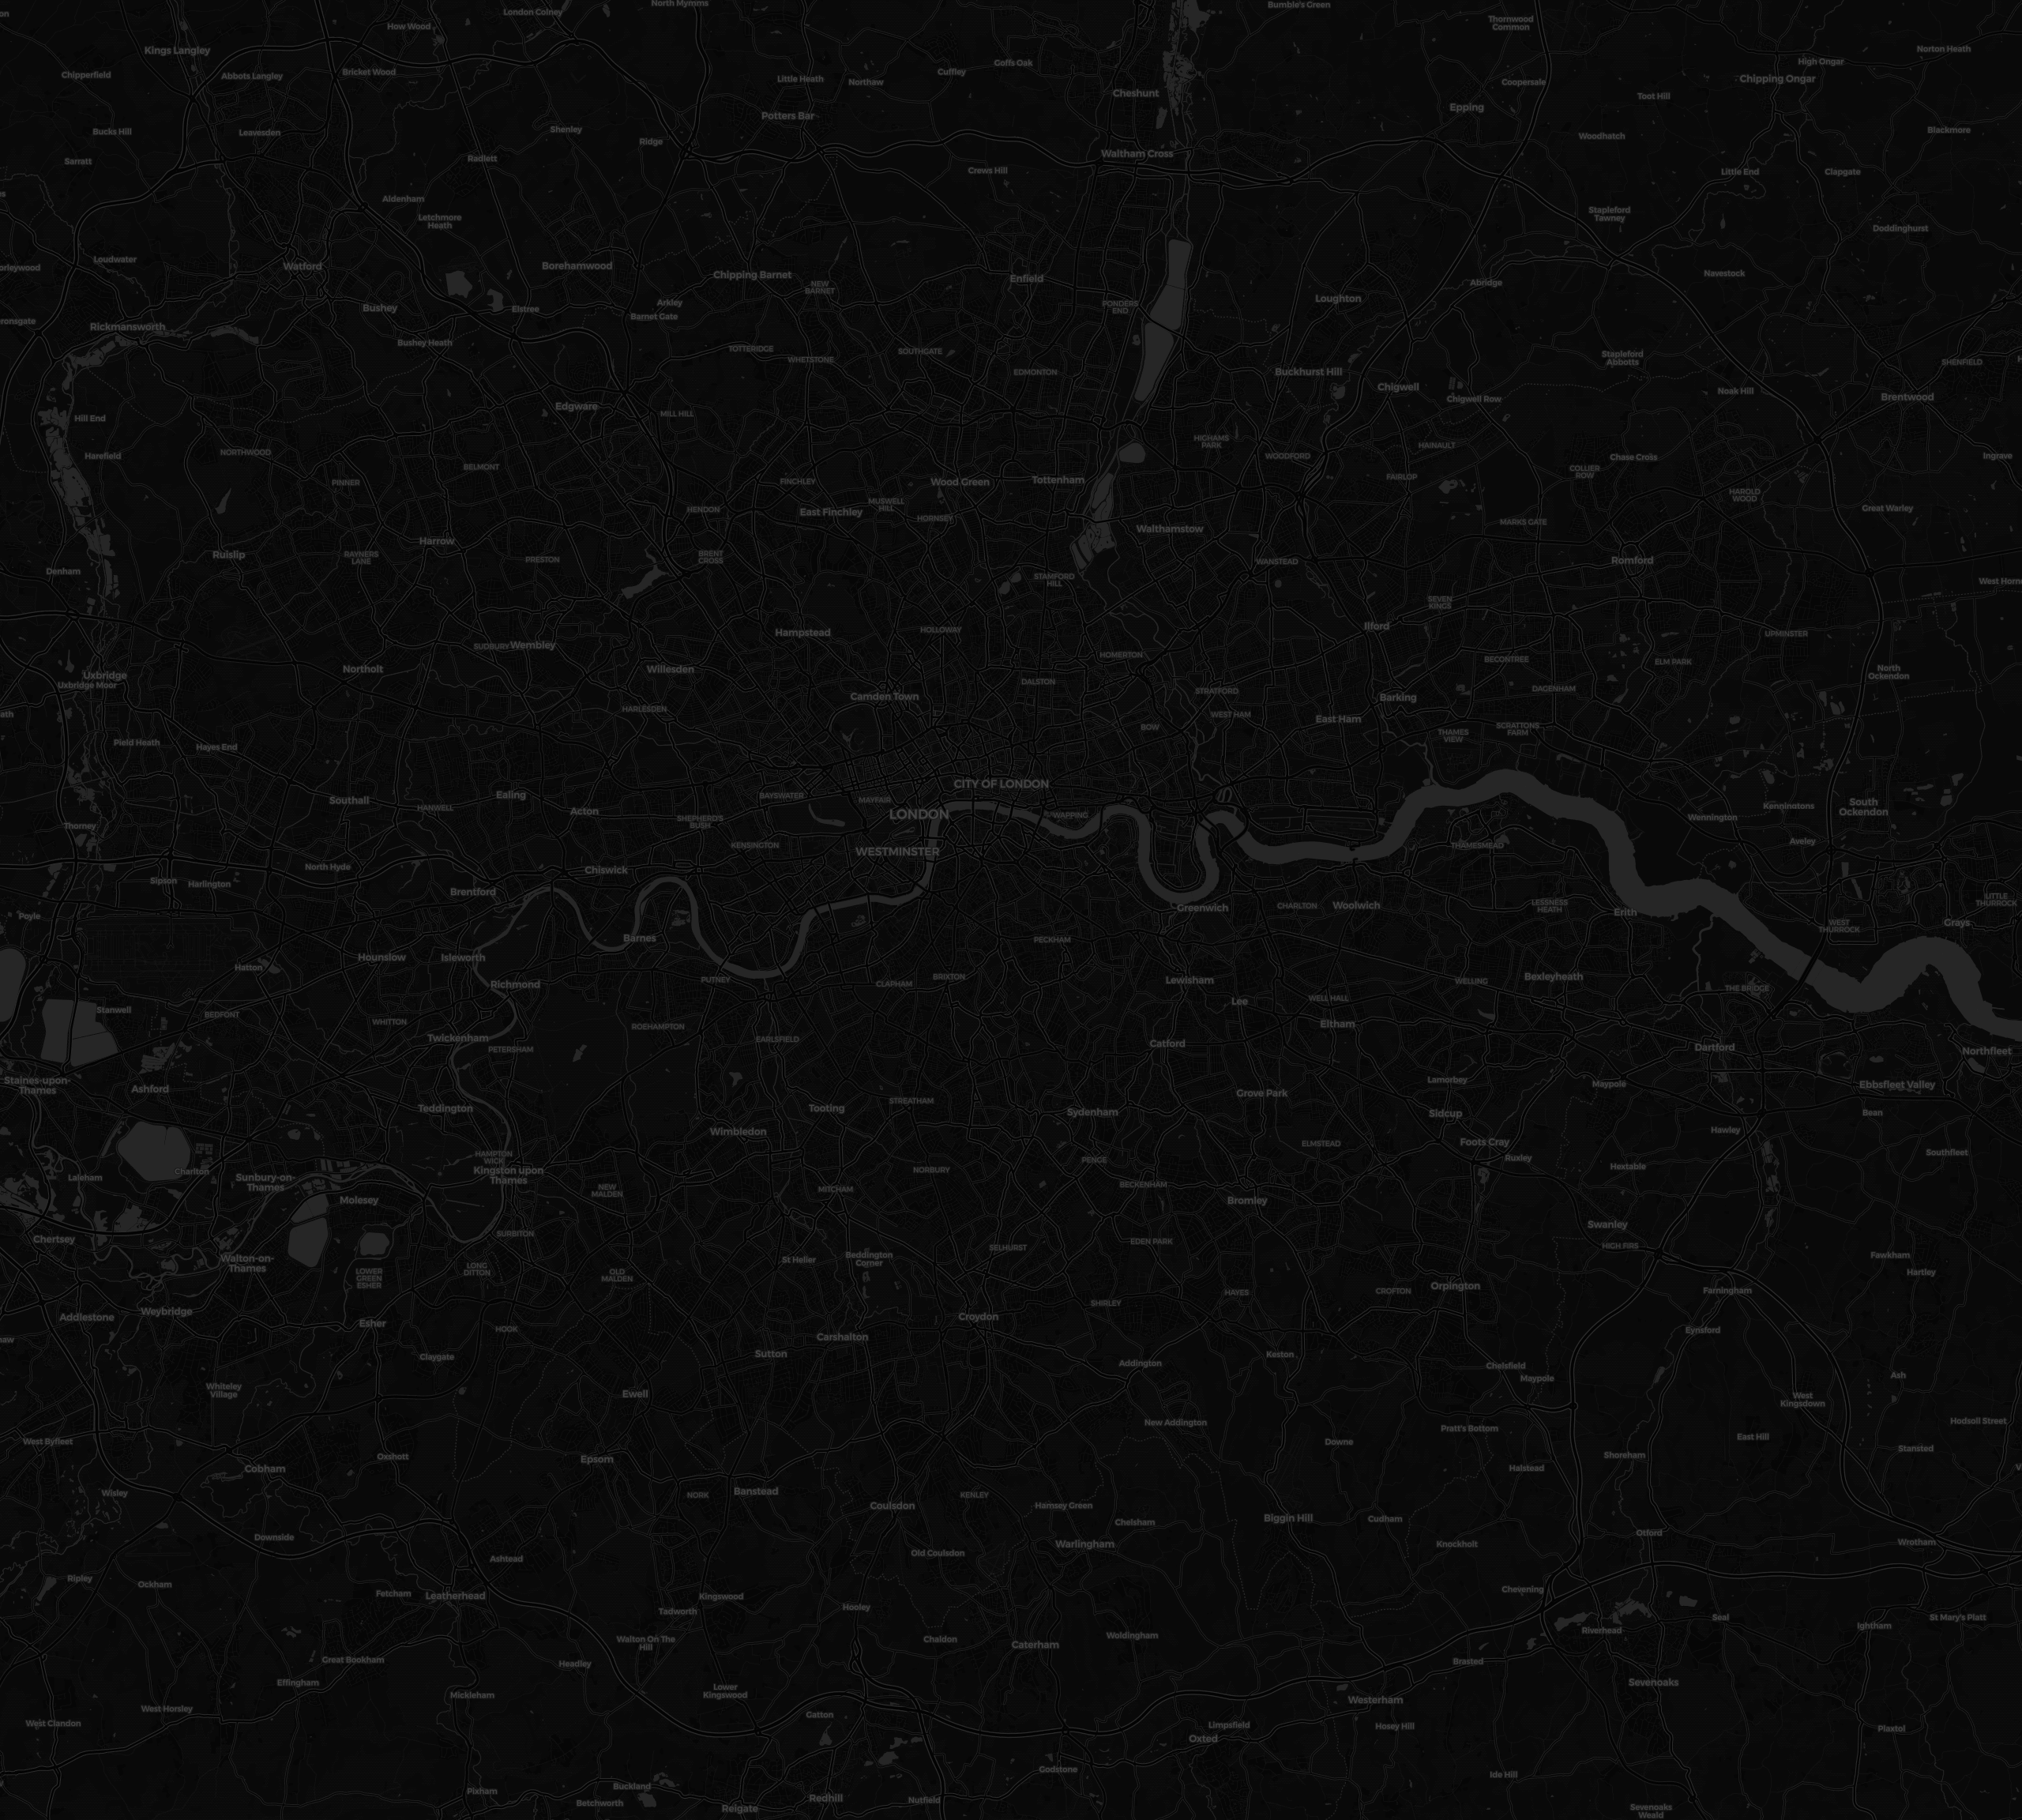
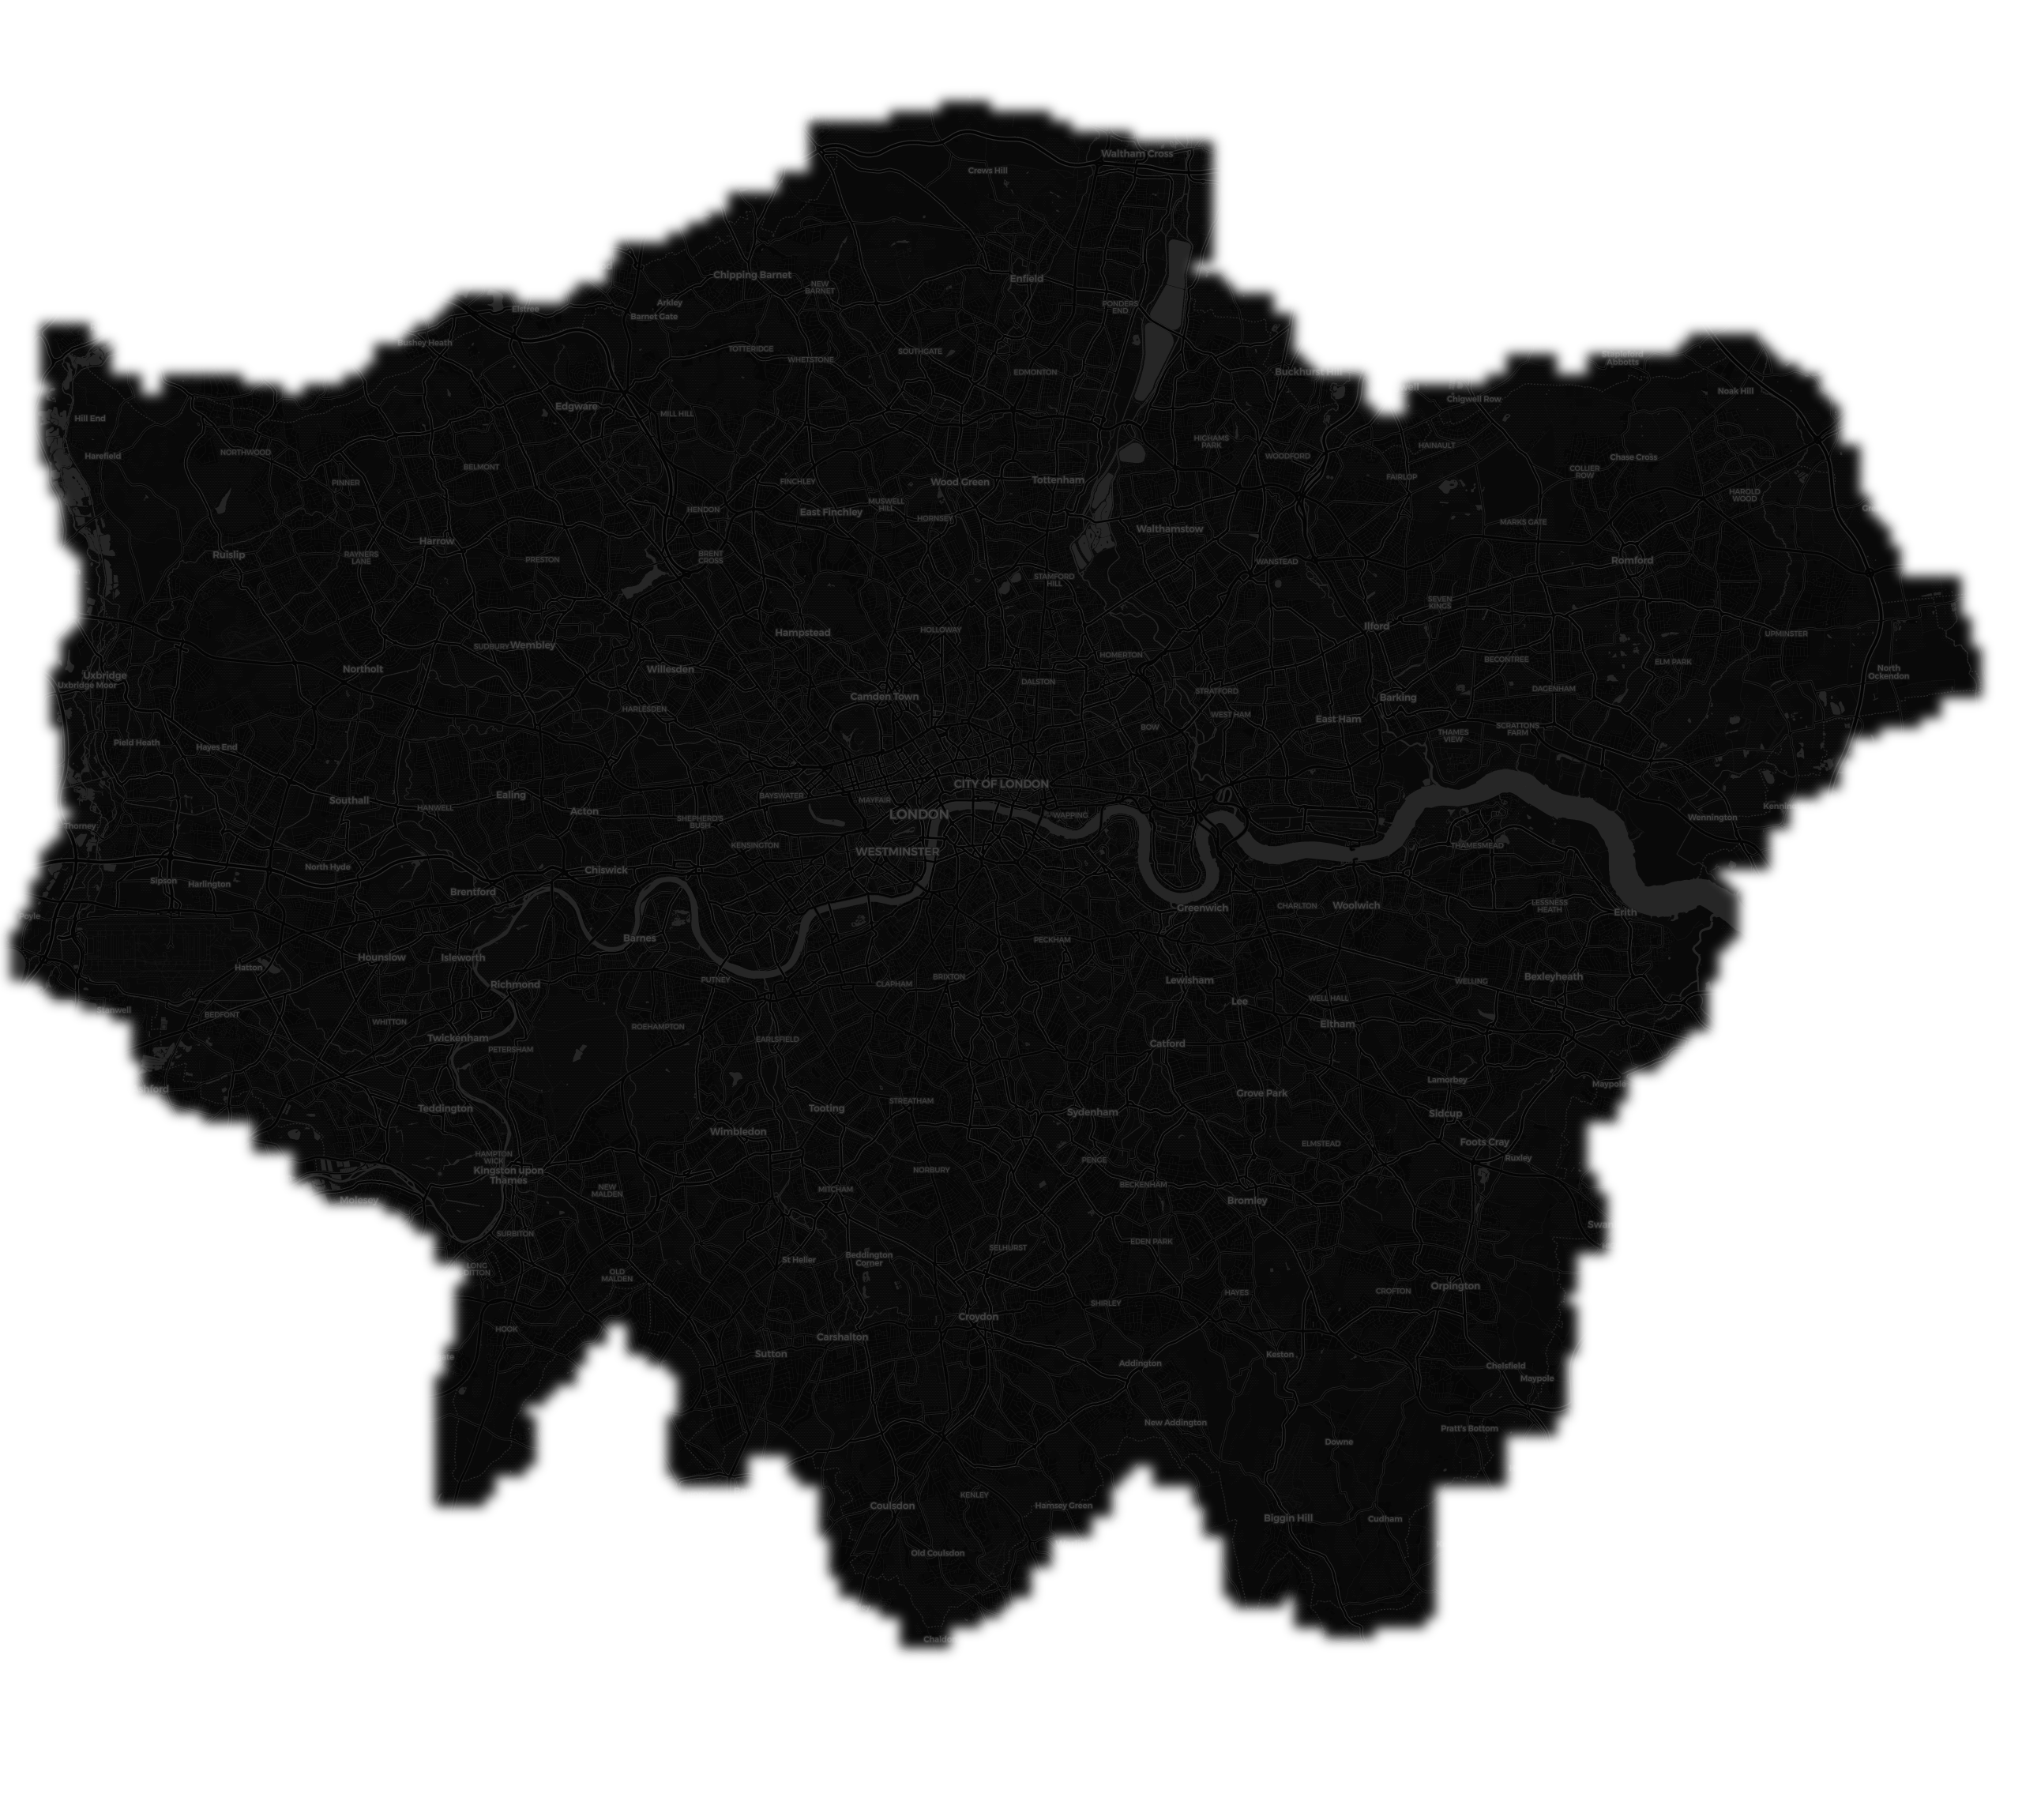
Extend buildings to all of Greater London + clip basemap to city silhouette
- backend/coverage.py: incident-density mask (already present) now used to
  clip the map and skip empty areas.
- backend/clip_basemap.py (new): rewrite basemap.png as RGBA, transparent
  outside the data silhouette (bilinear + gaussian soft edge).
- backend/build_buildings.py: add all_london region (full GL data extent,
  8x8 grid, MIN_AREA_M2=110); skip uncovered cells and drop buildings whose
  centroid is outside coverage.
- backend/fill_cells.py (new): re-fetch specific grid cells that failed to
  Overpass 429 and merge them into buildings.json, fixing grid-aligned holes
  (patched cells [5,3] Camden and [7,4] north).
- RiskMap3D.tsx: Basemap material transparent + alphaTest + DoubleSide so the
  clipped map shows the irregular silhouette; fix pedestal z-fighting flicker
  by giving the lip and main block distinct top-face heights.
- Regenerated basemap.png (RGBA clipped) and buildings.json (380k, all GL).

diff --git a/frontend/src/components/RiskMap3D.tsx b/frontend/src/components/RiskMap3D.tsx
@@ -67,18 +67,22 @@ function project(lat: number, lon: number, W: number, H: number) {
 // physical model block instead of a floating sheet.
 function Pedestal({ W, H }: { W: number; H: number }) {
   const DEPTH = 2.2;
-  const GAP = 0.02; // keep below the map plane to avoid z-fighting
   const LIP = 0.6; // frame overhang
+  // Distinct top faces avoid z-fighting (the flicker): the lip top sits a clear
+  // gap below the map plane (y=0), and the main block top sits below the lip top.
+  const LIP_TOP = -0.06; // gap below map plane so map/lip don't co-plane
+  const LIP_H = 0.26;
+  const BLOCK_TOP = -0.2; // strictly below LIP_TOP so the two tops never coincide
   return (
     <group>
       {/* main block */}
-      <mesh position={[0, -DEPTH / 2 - GAP, 0]}>
+      <mesh position={[0, BLOCK_TOP - DEPTH / 2, 0]}>
         <boxGeometry args={[W, DEPTH, H]} />
         <meshStandardMaterial color="#10141d" roughness={0.75} metalness={0.25} />
       </mesh>
       {/* top framing lip, slightly larger + lighter */}
-      <mesh position={[0, -0.13 - GAP, 0]}>
-        <boxGeometry args={[W + LIP, 0.26, H + LIP]} />
+      <mesh position={[0, LIP_TOP - LIP_H / 2, 0]}>
+        <boxGeometry args={[W + LIP, LIP_H, H + LIP]} />
         <meshStandardMaterial
           color="#2b3650"
           roughness={0.5}
@@ -97,7 +101,15 @@ function Basemap({ W, H }: { W: number; H: number }) {
   return (
     <mesh rotation={[-Math.PI / 2, 0, 0]} position={[0, 0, 0]} receiveShadow>
       <planeGeometry args={[W, H]} />
-      <meshBasicMaterial map={tex} toneMapped={false} />
+      {/* basemap.png is clipped to the London silhouette (transparent corners).
+          alphaTest hides them; DoubleSide so it shows from below on tilt. */}
+      <meshBasicMaterial
+        map={tex}
+        toneMapped={false}
+        transparent
+        alphaTest={0.5}
+        side={THREE.DoubleSide}
+      />
     </mesh>
   );
 }

diff --git a/backend/fill_cells.py b/backend/fill_cells.py
@@ -1,0 +1,72 @@
+"""Re-fetch specific all_london grid cells that failed (Overpass 429 -> 0 results)
+and merge them into the existing buildings.json without re-downloading everything.
+
+The big build occasionally loses a cell to rate-limiting, leaving a clean
+grid-aligned hole in the 3D city. This patches those cells in place.
+
+Run:  REGION=all_london python -m backend.fill_cells 5,3 7,4
+"""
+from __future__ import annotations
+
+import json
+import math
+import sys
+import time
+
+from backend.build_buildings import (
+    BBOX, GRID, MAX_BUILDINGS, MIN_AREA_M2, OUT, fetch_cell, levels_to_h,
+)
+from backend.coverage import is_covered_fn, load_bounds
+
+
+def main(cells: list[tuple[int, int]]) -> None:
+    s0, w0, n0, e0 = BBOX
+    latC = (n0 + s0) / 2
+    m_lat = 111_130.0
+    m_lon = 111_320.0 * math.cos(math.radians(latC))
+    dlat = (n0 - s0) / GRID
+    dlon = (e0 - w0) / GRID
+    covered = is_covered_fn(load_bounds())
+
+    new_rows: list[list] = []
+    for i, j in cells:
+        cs = s0 + i * dlat
+        cn = cs + dlat
+        cw = w0 + j * dlon
+        ce = cw + dlon
+        print(f"fetch cell [{i},{j}] bbox=({cs:.3f},{cw:.3f},{cn:.3f},{ce:.3f})")
+        els = fetch_cell(cs, cw, cn, ce)
+        print(f"  got {len(els)} ways")
+        for el in els:
+            geom = el.get("geometry")
+            if not geom:
+                continue
+            lats = [g["lat"] for g in geom]
+            lons = [g["lon"] for g in geom]
+            w_m = (max(lons) - min(lons)) * m_lon
+            d_m = (max(lats) - min(lats)) * m_lat
+            if w_m * d_m < MIN_AREA_M2:
+                continue
+            clat = sum(lats) / len(lats)
+            clon = sum(lons) / len(lons)
+            if not covered(clat, clon):
+                continue
+            new_rows.append([round(clat, 6), round(clon, 6),
+                             round(w_m, 1), round(d_m, 1),
+                             round(levels_to_h(el.get("tags", {})), 1)])
+        time.sleep(2)
+
+    existing = json.loads(OUT.read_text())
+    print(f"existing {len(existing)} + new {len(new_rows)}")
+    merged = existing + new_rows
+    if len(merged) > MAX_BUILDINGS:
+        merged.sort(key=lambda r: r[2] * r[3], reverse=True)  # keep largest by area
+        merged = merged[:MAX_BUILDINGS]
+        print(f"capped to {MAX_BUILDINGS} largest")
+    OUT.write_text(json.dumps(merged, separators=(",", ":")))
+    print(f"wrote {len(merged)} -> {OUT} ({OUT.stat().st_size // 1024} KB)")
+
+
+if __name__ == "__main__":
+    cells = [tuple(int(x) for x in a.split(",")) for a in sys.argv[1:]]
+    main(cells or [(5, 3), (7, 4)])

diff --git a/backend/clip_basemap.py b/backend/clip_basemap.py
@@ -1,0 +1,48 @@
+"""Clip the rectangular basemap to the real London data silhouette.
+
+Loads frontend/public/basemap.png, builds a coverage alpha channel from the
+incident-density mask (coverage.coverage_grid), upscales it to the basemap
+resolution with a bilinear/blur soft edge, and rewrites basemap.png as RGBA so
+the empty Surrey/Kent corners are transparent. The frontend renders the plane
+with alphaTest, so the map shows an irregular city silhouette instead of a
+rectangle.
+
+Run AFTER build_map_tile.py:
+  python -m backend.clip_basemap
+"""
+from __future__ import annotations
+
+from pathlib import Path
+
+import numpy as np
+from PIL import Image, ImageFilter
+
+from backend.coverage import coverage_grid, load_bounds
+
+ROOT = Path(__file__).resolve().parents[1]
+PNG = ROOT / "frontend" / "public" / "basemap.png"
+
+FEATHER = 6  # gaussian blur radius (px) on the upscaled alpha for a soft edge
+
+
+def main() -> None:
+    bounds = load_bounds()
+    img = Image.open(PNG).convert("RGBA")
+    W, H = img.size
+    print(f"basemap {W}x{H}")
+
+    grid = coverage_grid(bounds)  # bool [ny, nx], row 0 = north
+    alpha_small = Image.fromarray((grid * 255).astype("uint8"))  # nx wide, ny tall
+    # upscale to basemap resolution (BILINEAR = soft ramp at the boundary)
+    alpha = alpha_small.resize((W, H), Image.BILINEAR)
+    alpha = alpha.filter(ImageFilter.GaussianBlur(FEATHER))
+
+    img.putalpha(alpha)
+    img.save(PNG, "PNG", optimize=True)
+
+    covered = (np.array(alpha) > 127).mean() * 100
+    print(f"wrote {PNG} RGBA, ~{covered:.0f}% of frame covered")
+
+
+if __name__ == "__main__":
+    main()

diff --git a/backend/build_buildings.py b/backend/build_buildings.py
@@ -36,10 +36,15 @@ BBOX = {
     # central + SE London: City fringe, Southwark, Lambeth E, Greenwich,
     # Lewisham, Catford — fills the visible part of the Greater-London basemap.
     "extended": (51.40, -0.13, 51.56, 0.09),
+    # whole Greater-London data extent (matches the incident bbox / GLA boundary).
+    # Empty cells (Surrey/Kent corners) are skipped via the coverage mask.
+    "all_london": (51.287, -0.510, 51.692, 0.322),
 }[REGION]
 
-GRID = {"lewisham": 2, "extended": 6}[REGION]  # NxN sub-queries
-MIN_AREA_M2 = 45.0          # drop sheds / tiny footprints
+GRID = {"lewisham": 2, "extended": 6, "all_london": 8}[REGION]  # NxN sub-queries
+# all_london covers ~5x the area of extended, so raise the min footprint to cut
+# the GPU instance count; tiny sheds add nothing at that zoom.
+MIN_AREA_M2 = 110.0 if REGION == "all_london" else 45.0
 MAX_BUILDINGS = 380_000     # cap instances (keep largest by area)
 DEFAULT_LEVELS = 3
 M_PER_LEVEL = 3.1
@@ -86,6 +91,12 @@ def main() -> None:
     m_lat = 111_130.0
     m_lon = 111_320.0 * math.cos(math.radians(latC))
 
+    # Coverage mask: skip empty (no-incident) cells/buildings outside the city.
+    covered = None
+    if REGION == "all_london":
+        from backend.coverage import is_covered_fn, load_bounds
+        covered = is_covered_fn(load_bounds())
+
     seen: dict[int, list] = {}
     dlat = (n0 - s0) / GRID
     dlon = (e0 - w0) / GRID
@@ -96,6 +107,13 @@ def main() -> None:
             cn = cs + dlat
             cw = w0 + j * dlon
             ce = cw + dlon
+            # skip a cell whose center + 4 corners are all outside coverage
+            if covered is not None:
+                pts = [((cs + cn) / 2, (cw + ce) / 2),
+                       (cs, cw), (cs, ce), (cn, cw), (cn, ce)]
+                if not any(covered(la, lo) for la, lo in pts):
+                    print(f"  cell [{i},{j}] skip (no coverage)")
+                    continue
             els = fetch_cell(cs, cw, cn, ce)
             for el in els:
                 seen.setdefault(el["id"], el)
@@ -114,9 +132,13 @@ def main() -> None:
         area = w_m * d_m
         if area < MIN_AREA_M2:
             continue
+        clat = sum(lats) / len(lats)
+        clon = sum(lons) / len(lons)
+        if covered is not None and not covered(clat, clon):
+            continue
         out.append((
             area,
-            [round(sum(lats) / len(lats), 6), round(sum(lons) / len(lons), 6),
+            [round(clat, 6), round(clon, 6),
              round(w_m, 1), round(d_m, 1), round(levels_to_h(el.get("tags", {})), 1)],
         ))
 

diff --git a/docs/PLAN_HANDOFF.md b/docs/PLAN_HANDOFF.md
@@ -26,16 +26,16 @@ Docker containers (`essential-apps-backend`, `essential-apps-web`) squat on **:8
 - A's forecast schema has **per-ward lat/lon** → if A emits all-London, every ward column auto-appears, camera re-frames to centroid, labels stay capped. **Zero frontend change.**
 - `backend/geo.py` only has 12 Lewisham wards — used **backend-only** (scenario station logic, mobile routes). Not the frontend join key.
 
-## IN PROGRESS — extend buildings to full GL + clip map non-rectangular
-User wants: buildings across the whole data area (all GL), small buildings filtered out (GPU), and the **map clipped to where data exists** (cut empty Surrey/Kent corners; map need not be rectangular).
+## DONE — extend buildings to full GL + clip map non-rectangular
+Goal: buildings across whole data area (all GL), small buildings filtered (GPU), map clipped to where data exists (cut empty Surrey/Kent corners; non-rectangular).
 
-Done so far: `backend/coverage.py` written (incident-density mask over basemap bounds; `coverage_grid()` + `is_covered_fn()`). **Untested.**
+- `backend/coverage.py` — incident-density mask over basemap bounds. **Tested**: 53% of frame covered, 153/180 rows non-empty.
+1. ✅ **`backend/clip_basemap.py`** — loads `basemap.png`, builds coverage alpha (`coverage_grid()` upscaled BILINEAR + GaussianBlur soft edge), rewrites RGBA. Ran → basemap now the iconic GL silhouette (verified by compositing alpha over magenta). Backup of rectangular original: `/tmp/basemap_rect_backup.png`.
+2. ✅ **`backend/build_buildings.py`** — added `all_london` region (bbox `(51.287,-0.510,51.692,0.322)`, 8×8 grid, `MIN_AREA_M2=110`). Skips cells whose center+4 corners are all uncovered; drops buildings whose centroid isn't covered (`coverage.is_covered_fn`). `MAX_BUILDINGS=380k` cap kept. Rebuild RAN (see status below). Backup of extended set: `/tmp/buildings_extended_backup.json`.
+3. ✅ **`RiskMap3D.tsx` `Basemap`** — material now `transparent` + `alphaTest={0.5}` + `side={THREE.DoubleSide}` → clipped basemap shows irregular silhouette. Pedestal still rectangular slab (acceptable "mounted board").
+4. **Verify remaining**: check FPS with new instance count in browser; confirm dev serves new RGBA basemap + buildings.json. (Alignment uses same projection — unchanged.)
 
-Remaining steps:
-1. **`backend/clip_basemap.py`** (new): load `basemap.png`, build coverage alpha from `coverage.coverage_grid()` (resize grid → basemap WxH, bilinear for soft edge), write RGBA `basemap.png` transparent outside the mask. Run it after `build_map_tile.py`.
-2. **`backend/build_buildings.py`**: add an `all_london` region (bbox = GL data extent ~ `(51.287,-0.510,51.692,0.322)`), grid e.g. 8×8, **skip cells with no coverage** (use `coverage.is_covered_fn`), raise `MIN_AREA_M2` (~100–120 to cut count), drop buildings whose centroid isn't covered, keep `MAX_BUILDINGS` cap (~400k, largest by area). Run (long; background it — Overpass 429s auto-retry).
-3. **Frontend `RiskMap3D.tsx` `Basemap`**: material needs `transparent` + `alphaTest={0.5}` + `side={THREE.DoubleSide}` so the clipped (transparent) basemap shows the irregular silhouette. Verify pedestal still looks OK under a non-rectangular map (it's a rectangular slab — acceptable as a "mounted board", or shrink/clip later).
-4. Verify: overlay sample buildings on basemap (PIL) to confirm alignment; check FPS with ~400k instances; confirm dev serves new files.
+Note: `nohup python` output is block-buffered → `/tmp/build_buildings.log` stays empty until flush/exit. Use `-u` or wait for process exit.
 
 Regen commands:
 ```